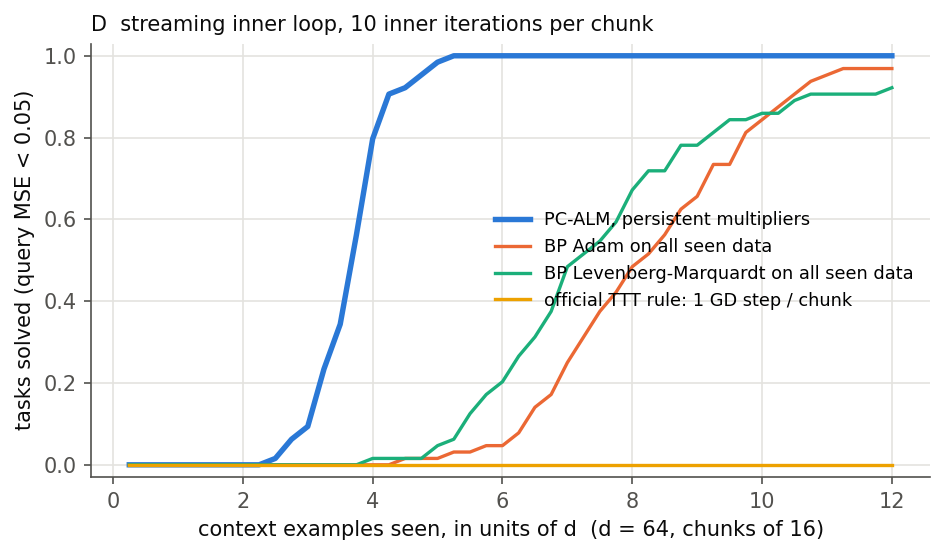
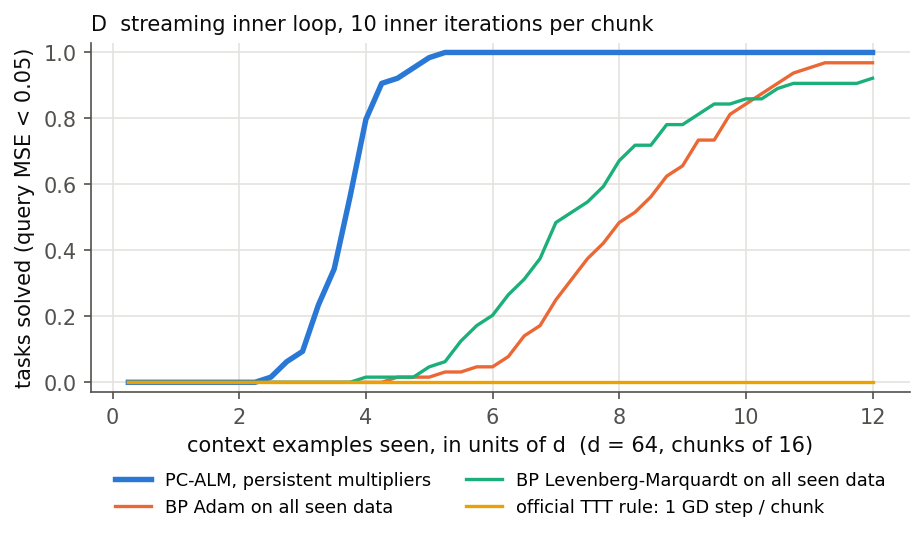
Move streaming figure legend below the plot

Changed region(s): [[0.0, 0.0892, 1.0, 0.9814], [0.0909, 0.0297, 0.7273, 0.0595], [0.2424, 0.3866, 0.2727, 0.4164]]

diff --git a/work/lifted_credit/make_figures.py b/work/lifted_credit/make_figures.py
@@ -112,7 +112,7 @@ def fig_stream():
     ax.set_xlabel('context examples seen, in units of d  (d = 64, chunks of 16)')
     ax.set_ylabel('tasks solved (query MSE < 0.05)'); ax.set_ylim(-0.03, 1.03)
     ax.set_title('D  streaming inner loop, 10 inner iterations per chunk', loc='left', fontsize=10, color=INK)
-    ax.legend(fontsize=8.5, loc='center right')
+    ax.legend(fontsize=8.5, ncol=2, loc='upper center', bbox_to_anchor=(0.5, -0.18))
     fig.tight_layout(); fig.savefig(FIG / 'fig2_streaming.png', bbox_inches='tight'); plt.close(fig)
 
 
